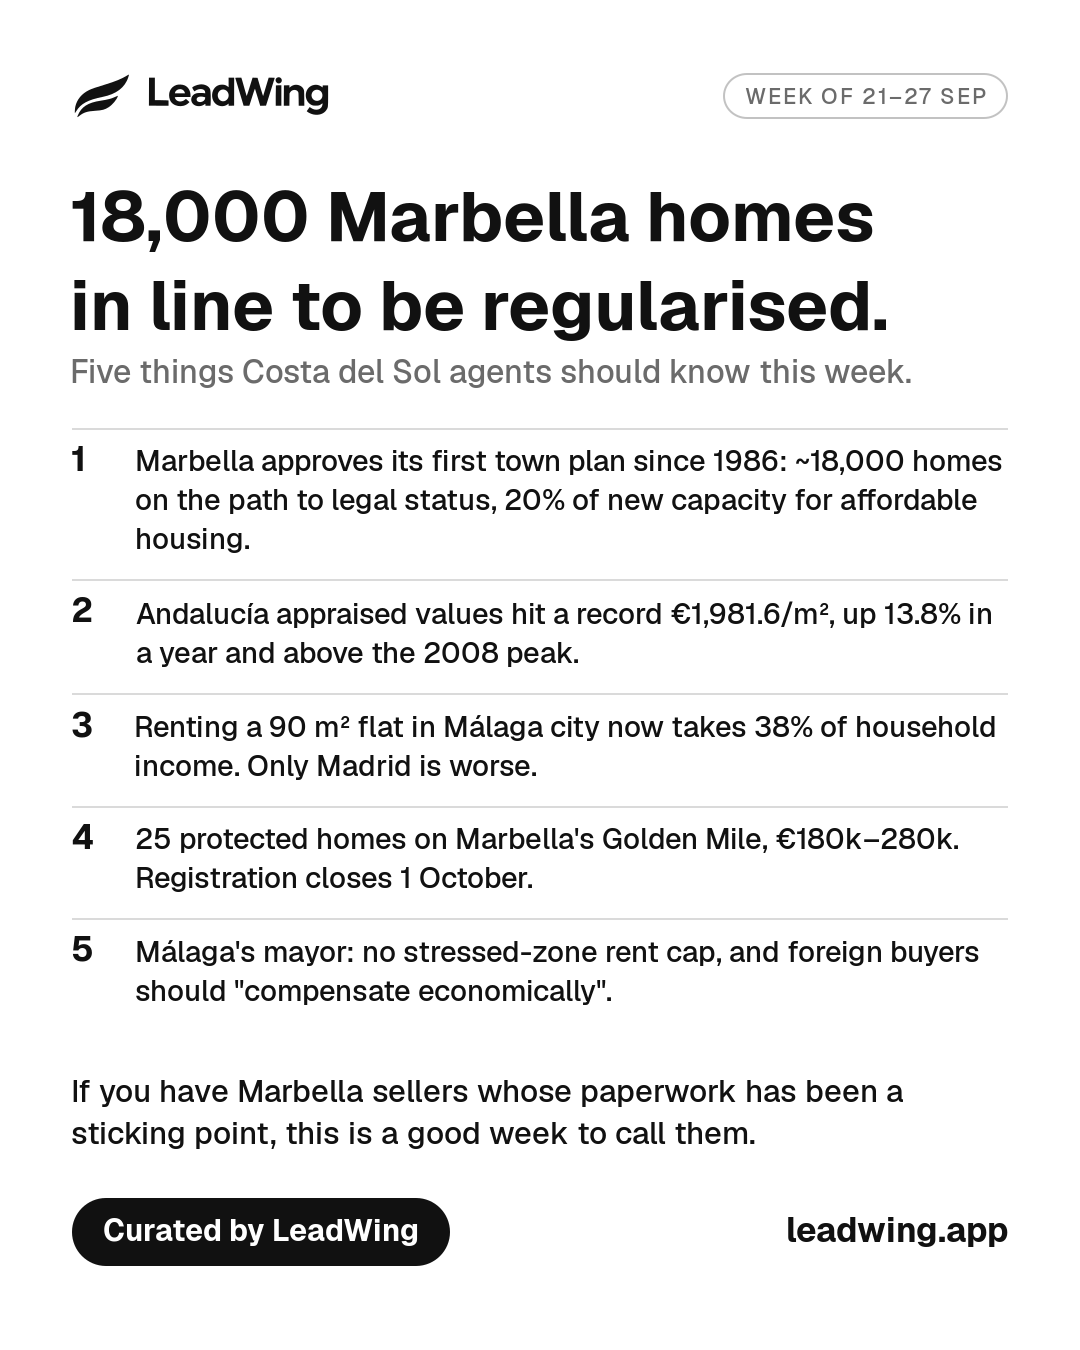
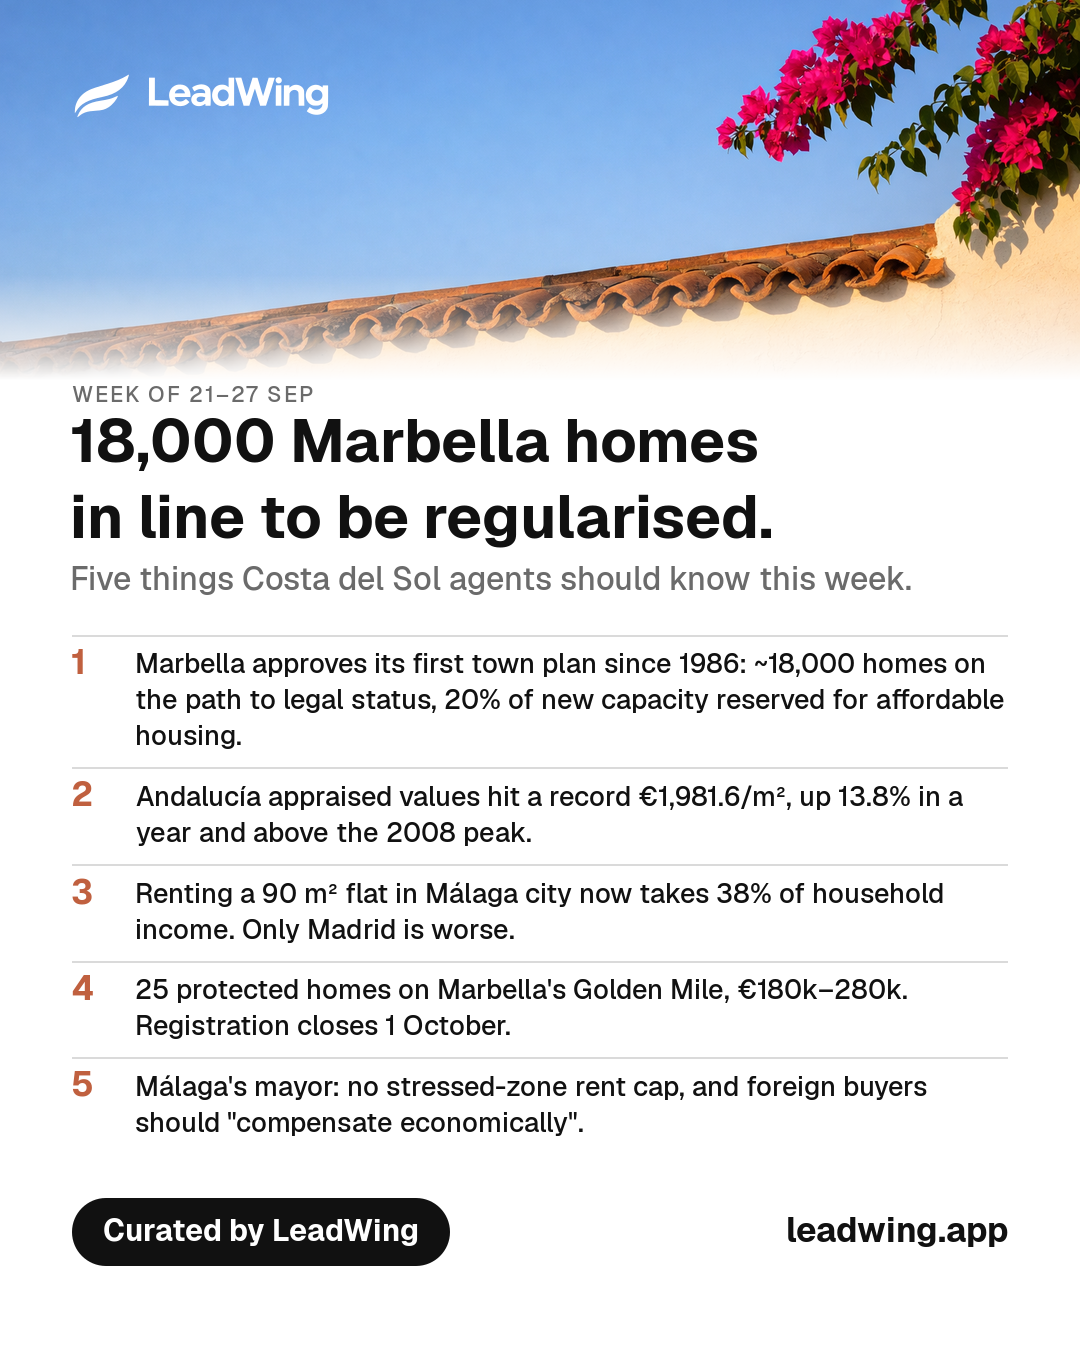
marketing: 2026-09-23 digest card with editorial photo
Claude-Session: https://claude.ai/code/session_01C41KF2jdXme4h4ZRPKkHFj

diff --git a/output/facebook/posts/PLAYBOOK.md b/output/facebook/posts/PLAYBOOK.md
@@ -18,7 +18,7 @@ Read this first on every run. It is the operator's memory: update it when a deci
 - Product facts: Free = 10 clients, forever, no card. Pro = €29/month or €276/year. Founding = €19/month or €180/year for life for the first 20 paying agents ("Founding Agent #n"). Excel/CSV import with preview and one-click undo; export on every plan; one client card with budget, viewings, offers, documents; a drafted follow-up on every buyer card; tasks; calendar of viewings; templates.
 - Voice: plain, warm, specific, no hype, at most one emoji, no fake testimonials, no invented numbers. Replies in the language the person used.
 - Banned word (founder, 23 Sep): **"card"** — "buyer card", "client card", "every card" are internal product jargon and mean nothing to an agent. Say "every buyer", "each client", "for every buyer, the next step and the message already written". ("No card" meaning no credit card is fine.) The 19 Sep and 23 Sep posts already used it publicly; do not repeat it anywhere new.
-- Digest look (founder, 23 Sep): digest cards must NOT share the product creatives' terracotta background. They are white, black type, hairlines, minimal: `compose-digest.mjs` with `"theme": "mono"` in the spec. Product posts and ads keep the brand background + real screenshot.
+- Digest look (founder, 23 Sep, after rejecting the terracotta version as "all the same" and the plain white one as too bare): an editorial photo across the top (~380 px, fading into white), then black type, orange numbers, hairlines, "Curated by LeadWing" pill + URL. Built by `compose-digest.mjs` with `"theme": "photo"`; `spec-digest-2026-09-25.json` is the template. **Each week gets a new photo tied to the lead story** (this week Marbella: whitewashed wall, roof tiles, bougainvillea), generated with OpenAI chatgpt-image-latest at 1536x1024 (~€0.10), prompt style "editorial photograph for a property newsletter, calm minimal composition, plenty of empty sky, no text, no people, no logos", saved as `photo-YYYY-MM-DD-<place>.png`. Product posts and ads keep the terracotta background + real screenshot, so the two kinds of post never look alike.
 
 ## News digests
 - Search: `GET https://www.searchapi.io/api/v1/search` with `engine=google_news`, `gl=es`, `time_period=last_week`, `link=resolved`, once with `hl=en` and once with `hl=es`; queries like "Costa del Sol property", "Marbella real estate", "Málaga vivienda precios", "alquiler turístico Andalucía", "Estepona Mijas Fuengirola Benalmádena vivienda". Send the key as `Authorization: Bearer`. At most 10 searches per run; check `GET https://www.searchapi.io/api/v1/me` and judge by `current_month_usage` (allowance 10,000; stay under 400 a month).
